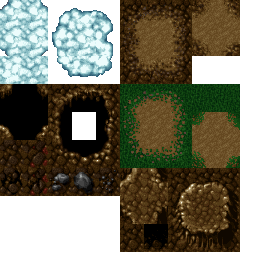
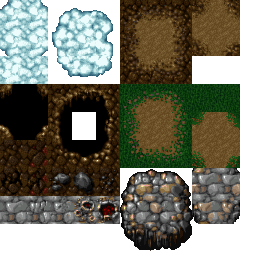
Added floating rocks

Changed region(s): [[0.0, 0.6562, 0.9375, 1.0]]

diff --git a/map-generator.ts b/map-generator.ts
@@ -3,8 +3,6 @@
 import {range, sample} from 'lodash';
 import SimplexNoise from 'simplex-noise';
 
-const simplex = new SimplexNoise();
-
 enum TileEdge {
 	A, B, L, R,
 	BOTTOM, TOP,
@@ -61,8 +59,27 @@ export const cloudTileIndexes = {
 	obr: [11]
 };
 
-const generateMainPlanes = (position, {tileCount = 10, cutoff = 0} = {}): TileEdge[] => {
-	return range(tileCount).map((j) => simplex.noise2D(position, j) > cutoff ? TileEdge.B : TileEdge.A;
+export const rockTileIndexes = {
+	a: [76, 70, 71, 72, 73, 74],
+	b: [-1],
+	l: [75],
+	r: [77],
+	top: [66],
+	bottom: [86],
+	
+	itl: [68],
+	itr: [69],
+	ibl: [78],
+	ibr: [79],
+	
+	otl: [65],
+	otr: [67],
+	obl: [85],
+	obr: [87]
+};
+
+const generateMainPlanes = (position, {tileCount = 10, threshold = 0, noiseFunction} = {}): TileEdge[] => {
+	return range(tileCount).map((j) => noiseFunction(position, j) > threshold ? TileEdge.B : TileEdge.A;
 };
 								
 const enforceHorizontalSpacing = strip => strip.map((idx, col) => {
@@ -199,13 +216,15 @@ const generateTileIndexes = ([bottom, current, top], {tileTypeIndexes} = {}) => 
 	return current.map((idx, col) => sample(tileTypeIndexes[tileEdgeNames[idx]]));
 };
 	
-const generateMainPlaneWithHorizontalSpacing = (position, {tileCount = 10, cutoff = 0} = {}) => {
-	const step1 = generateMainPlanes(position, {tileCount, cutoff});
+const generateMainPlaneWithHorizontalSpacing = (position, {tileCount = 10, threshold = 0, noiseFunction} = {}) => {
+	const step1 = generateMainPlanes(position, {tileCount, threshold, noiseFunction});
 	return enforceHorizontalSpacing(step1);
 };
 	
-const createStripGenerator = ({tileCount = 10, cutoff = 0} = {}) => {
-	const options = {tileCount, cutoff};
+const createStripGenerator = ({tileCount = 10, threshold = 0} = {}) => {	
+	const simplex = new SimplexNoise();
+	const noiseFunction = (x, y) => simplex.noise2D(x, y);
+	const options = {tileCount, threshold, noiseFunction};
 	
 	let position = 0;
 	let [a, b, c] = [
@@ -220,8 +239,8 @@ const createStripGenerator = ({tileCount = 10, cutoff = 0} = {}) => {
 	}
 }
 	
-export const mapGenerator = ({tileCount = 10, cutoff = 0, tileTypeIndexes} = {}) => {
-	const generateStrip = createStripGenerator({tileCount, cutoff});
+export const mapGenerator = ({tileCount = 10, threshold = 0, tileTypeIndexes} = {}) => {
+	const generateStrip = createStripGenerator({tileCount, threshold});
 	
 	let bottom;
 	let current = generateStrip();

diff --git a/index.ts b/index.ts
@@ -4,7 +4,7 @@ import * as THREE from 'three';
 import {range, sample, flatten, values} from 'lodash';
 import SimplexNoise from 'simplex-noise';
 
-import {mapGenerator, desertTileIndexes, cloudTileIndexes} from './map-generator';
+import {mapGenerator, desertTileIndexes, cloudTileIndexes, rockTileIndexes} from './map-generator';
 import {createThreadmill} from './threadmill';
 
 import imageURL from './desert.png';
@@ -107,14 +107,14 @@ const main2 = () => {
 			tileCount: FLOOR_TILE_COUNT
 		});
 		
-		floorContainer.position.y = -100;
+		floorContainer.position.y = -150;
         
         animators.push(floorAnimator);                
 		scene.add(floorContainer);
 		
 		// Create clouds
         
-		const cloudTileIndexesGenerator = mapGenerator({tileCount: FLOOR_TILE_COUNT, tileTypeIndexes: cloudTileIndexes, cutoff: -0.2});
+		const cloudTileIndexesGenerator = mapGenerator({tileCount: FLOOR_TILE_COUNT, tileTypeIndexes: cloudTileIndexes, threshold: -0.2});
 		
 		const [cloudContainer, cloudAnimator] = createThreadmill({
 			tileIndexesGenerator: cloudTileIndexesGenerator,
@@ -122,8 +122,23 @@ const main2 = () => {
 			tileCount: FLOOR_TILE_COUNT
 		});
         
-        animators.push(cloudAnimator);                
+		cloudContainer.position.y = -50;
+
+		animators.push(cloudAnimator);                
 		scene.add(cloudContainer);
+		
+		// Create floating rocks
+        
+		const rockTileIndexesGenerator = mapGenerator({tileCount: FLOOR_TILE_COUNT, tileTypeIndexes: rockTileIndexes, threshold: -0.3});
+		
+		const [rockContainer, rockAnimator] = createThreadmill({
+			tileIndexesGenerator: rockTileIndexesGenerator,
+			materials: floorMaterials,
+			tileCount: FLOOR_TILE_COUNT
+		});
+        
+        animators.push(rockAnimator);                
+		scene.add(rockContainer);
 
 		// SKYBOX/FOG
 		var skyBoxGeometry = new THREE.CubeGeometry( 10000, 10000, 10000 );
